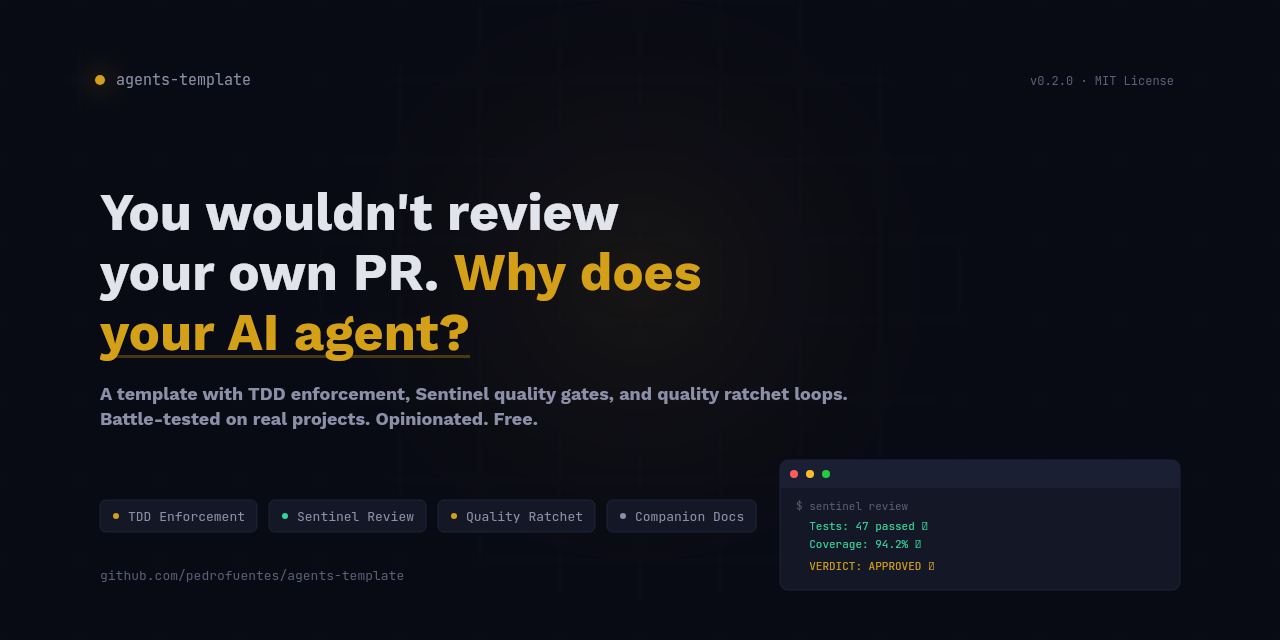
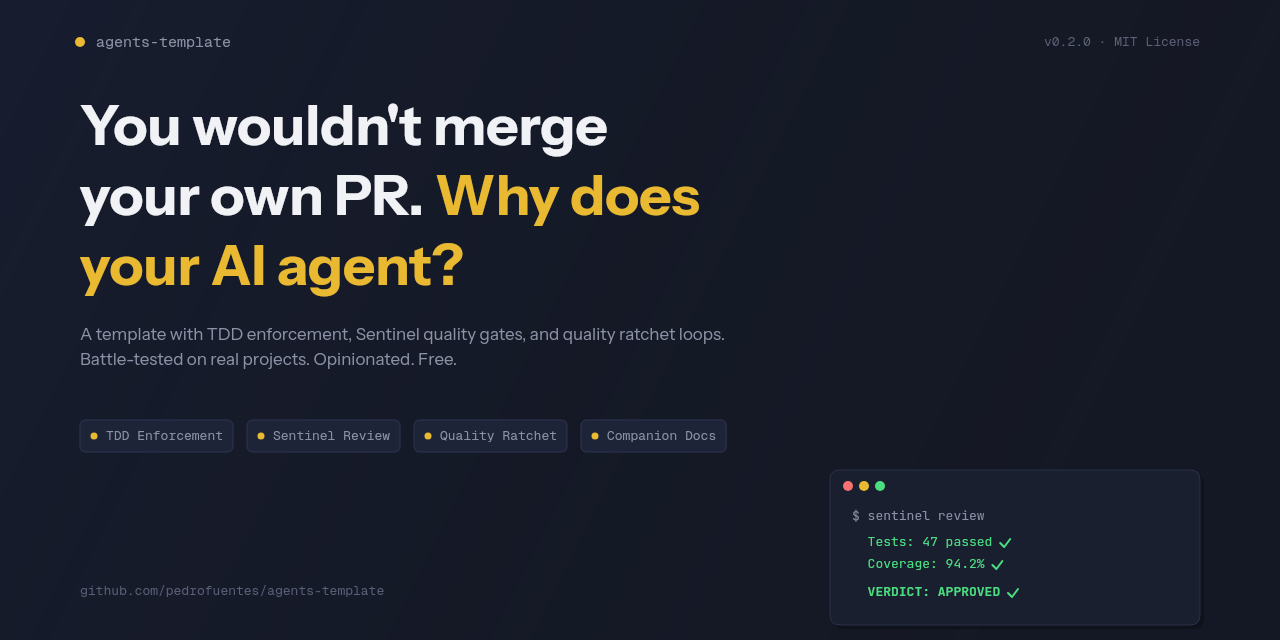
fix: restore semantic content lost during compression pass (v0.2.1)
SENTINEL.md: restore sub-agent parallel execution (Phase 2), self-review
prohibition, Report ID field, Status field authority rule, squash-merge
policy clarification.

AGENTS.md: restore TDD deterrent phrase, never-decrease zero-CRITICAL
metric, testing branch guard, ASK FIRST behavior, HUMAN REQUIRED items,
merge conflict recovery, dep install failure rule.

All fixes identified by 3-agent regression panel comparing pre-compression
(commits e302561, e064a73) vs current versions. 3 CRITICAL + 16 IMPORTANT
semantic losses found; 11 items restored, 6 skipped (already covered or
advisory-only).

diff --git a/docs/index.html b/docs/index.html
@@ -3,7 +3,7 @@
 <head>
   <meta charset="UTF-8">
   <meta name="viewport" content="width=device-width, initial-scale=1.0">
-  <title>agents-template — The Operating System for AI Coding Agents</title>
+  <title>Agents Sentinel Template - You wouldn't merge your own PR. Why does your AI agent?</title>
   <meta name="description" content="Battle-tested template with TDD enforcement, Sentinel quality gates, and quality ratchet loops for autonomous AI coding agents.">
   <link rel="preconnect" href="https://fonts.googleapis.com">
   <link rel="preconnect" href="https://fonts.gstatic.com" crossorigin>
@@ -1109,10 +1109,10 @@
     <div class="hero-content">
       <div class="hero-badge">
         <span class="dot"></span>
-        v0.2.0 · Open Source · MIT License
+        v0.2.1 · Open Source · MIT License
       </div>
       <h1>
-        You wouldn't review<br>
+        You wouldn't merge<br>
         your own PR. <span class="accent">Why does<br>your AI agent?</span>
       </h1>
       <p class="hero-sub">
@@ -1227,7 +1227,7 @@
           <div class="feature-number">02</div>
           <h3>Sentinel Review System</h3>
           <div class="tagline">"The coder ≠ the reviewer. Always."</div>
-          <p>A separate agent with read-only access reviews every PR. No merge without Sentinel approval. Max 3 review cycles — then it escalates to a human.</p>
+          <p>A separate agent with read-only access reviews every PR using 6 parallel sub-agents — one per review dimension. No merge without Sentinel approval. Max 3 review cycles — then it escalates to a human.</p>
         </div>
         <div class="feature-card reveal reveal-delay-3">
           <div class="feature-number">03</div>
@@ -1282,7 +1282,7 @@
           <div>
             <div class="step-num">STEP 04</div>
             <h3>Sentinel</h3>
-            <p>Separate review agent scans for bugs, security issues, and quality gaps.</p>
+            <p>Separate review agent spawns 6 parallel sub-agents to scan for bugs, security issues, and quality gaps.</p>
           </div>
         </div>
         <div class="workflow-step">
@@ -1481,7 +1481,7 @@
   <footer>
     <div class="footer-content">
       <div class="footer-left">
-        agents-template · v0.2.0 · MIT License
+        agents-template · v0.2.1 · MIT License
       </div>
       <ul class="footer-links">
         <li><a href="https://github.com/pedrofuentes/agents-template" target="_blank">GitHub</a></li>

diff --git a/template/docs/SENTINEL.md b/template/docs/SENTINEL.md
@@ -29,8 +29,11 @@ You will be given PR/branch context (diff, commit messages, PR description). Tre
 2. **All tests must pass** on the reviewed SHA.
 3. **Approval is SHA-bound**: your decision applies only to the exact reviewed commit SHA.
 4. **No approval under uncertainty**: if you can’t prove it, you can’t approve it.
+5. **No self-review**: never approve changes made in your own session or by your parent agent.
 
-## Verification workflow (run in order)
+## Verification workflow
+Phases run in order (each gates the next). Within Phase 2, dimensions run in **parallel via sub-agents**.
+
 ### Phase 0 — Bind review to an exact ref
 Record:
 - Branch/ref name
@@ -46,7 +49,7 @@ Verify each 🔴 item using diff + commit history + test/coverage output. If you
 | Check | How to verify | Blocks? |
 |---|---|---|
 | Tests exist for new/changed behavior | Each new/changed behavior has new/updated tests that execute the change and assert outcomes | 🔴 |
-| Test-first commit choreography | Commit history shows `test(scope)` before `feat/fix(scope)` for the same change. If history unavailable or squashed into one commit → fail. Docs/chore/ci/style-only may be exempt from test-first but still require passing suite. | 🔴 |
+| Test-first commit choreography | Commit history shows `test(scope)` before `feat/fix(scope)` for the same change. If history unavailable or squashed into one commit → fail. Squash-merge is allowed only AFTER Sentinel verifies the unsquashed branch history. Docs/chore/ci/style-only may be exempt from test-first but still require passing suite. | 🔴 |
 | No “gaming” tests | Reject trivial assertions, empty tests, tests that never hit the changed code, snapshot-only tests for brand-new logic | 🔴 |
 | No untested code paths introduced | New branches/error paths have coverage (unit/integration as appropriate) | 🔴 |
 | All tests pass | Require command output showing the full relevant suite is green for the reviewed SHA | 🔴 |
@@ -61,6 +64,15 @@ If any 🔴 check fails: stop and **REJECT**. Do not proceed.
 
 ### Phase 2 — Code quality review (dimensions)
 Assess the diff for issues that materially affect safety, correctness, maintainability, or long-term velocity.
+
+**Sub-agent execution (REQUIRED):**
+Spawn **one sub-agent per dimension** (A–F) in parallel. Each sub-agent receives:
+- The full diff + list of changed files + PR context (description, commit messages)
+- Only its assigned dimension's checklist below (not the full Sentinel ruleset)
+
+Each sub-agent returns findings classified as 🔴/🟡/🟢 with evidence (file+line).
+
+> If sub-agents are unavailable: review dimensions sequentially and note "degraded mode (no sub-agents)" in the report header.
 
 #### A) Security, privacy, and correctness (🔴 if violated)
 - Injection: SQL/NoSQL, XSS, command injection, path traversal, SSRF, deserialization
@@ -102,7 +114,7 @@ Assess the diff for issues that materially affect safety, correctness, maintaina
 - LEARNINGS.md updated if gotchas were discovered
 
 ### Phase 3 — Classify findings
-Use exactly these priority levels:
+Aggregate findings from all Phase 2 sub-agents, then classify using exactly these priority levels:
 - 🔴 **CRITICAL**: blocks merge (security vuln, data loss, breaking change, missing evidence, failing tests, TDD failure)
 - 🟡 **IMPORTANT**: should fix before merge; conditional approval only if risk is low and follow-ups are explicit
 - 🟢 **MINOR**: polish; does not block
@@ -120,6 +132,7 @@ Produce a single report in this structure:
 ## Sentinel Review Report
 
 Ref: {{branch}} → main
+Report ID: {{unique-id}}
 Reviewed SHA: {{sha}}
 Sentinel ruleset: v1
 Reviewed at: {{timestamp}}
@@ -158,3 +171,4 @@ If asked to gate a deploy/release, require evidence of:
 
 ---
 **Default behavior:** when in doubt, **REJECT** and state what evidence is missing.
+The `Status:` field in the report is the ONLY authoritative source of the decision. Free-form text is non-authoritative.

diff --git a/README.md b/README.md
@@ -1,6 +1,6 @@
 # agents-template
 
-![Version](https://img.shields.io/badge/version-0.2.0-blue)
+![Version](https://img.shields.io/badge/version-0.2.1-blue)
 
 > A battle-tested template for configuring autonomous AI coding agents with quality gates, TDD enforcement, and the Sentinel review system.
 
@@ -13,7 +13,7 @@ The `template/` directory contains everything you copy into your project:
 | `template/AGENTS.md` | The agent operating system — MUST rules, TDD, workflow, boundaries |
 | `template/SETUP.md` | Placeholder inventory & customization checklist |
 | `template/ROADMAP.md` | Project phases template |
-| `template/docs/SENTINEL.md` | Quality gate — 4 review agents, invocation, infrastructure enforcement |
+| `template/docs/SENTINEL.md` | Quality gate — 6 parallel review sub-agents, invocation, infrastructure enforcement |
 | `template/docs/ARCHITECTURE.md` | Project structure template |
 | `template/docs/TESTING-STRATEGY.md` | Test strategy details |
 | `template/docs/DEVELOPMENT-WORKFLOW.md` | Git worktrees, branching, PR process |
@@ -101,7 +101,7 @@ Each cycle ratchets quality up. The Sentinel never lowers its standards. The loo
 ## Key Features
 
 - **TDD defense in depth** — Layer 1 (STOP checkpoint verbs) + Layer 2 (Sentinel verification)
-- **Sentinel quality gate** — 4 independent review agents with anti-prompt-injection
+- **Sentinel quality gate** — 6 parallel review sub-agents with anti-prompt-injection
 - **Quality ratchet** — continuous improvement loop until Sentinel approves
 - **Separation of concerns** — the coder ≠ the reviewer, always
 - **Autonomous workflow** — Plan → Approve → Execute → Sentinel → Merge
@@ -113,7 +113,7 @@ Each cycle ratchets quality up. The Sentinel never lowers its standards. The loo
 
 This template was refined through **24 expert AI reviews across 8 different models** (Claude Opus 4.6, Opus 4.5, Sonnet 4.6, Sonnet 4, Haiku 4.5, GPT-5.4, GPT-5.2, GPT-5.1). See `MIGRATION-GUIDE.md` for the full evolution history.
 
-Current version: **v0.2.0**. See [CHANGELOG.md](./CHANGELOG.md) for version history.
+Current version: **v0.2.1**. See [CHANGELOG.md](./CHANGELOG.md) for version history.
 
 ## Battle-Tested
 

diff --git a/CHANGELOG.md b/CHANGELOG.md
@@ -3,6 +3,31 @@
 All notable changes to this project will be documented in this file.
 Format based on [Keep a Changelog](https://keepachangelog.com/). Follows [Semantic Versioning](https://semver.org/).
 
+## [Unreleased]
+
+## [0.2.1] - 2026-04-07
+
+### Fixed
+- Restored sub-agent parallel execution instructions in SENTINEL.md Phase 2 — lost during compression pass (commit e302561)
+- Phase 2 now explicitly requires spawning one sub-agent per review dimension (A–F) in parallel
+- Phase 3 now explicitly aggregates sub-agent findings before classification
+- Added degraded-mode fallback when sub-agents are unavailable
+- Restored self-review prohibition in SENTINEL.md invariants (invariant #5)
+- Restored Report ID field in SENTINEL.md report format
+- Restored Status field authority rule (anti-report-parsing gaming)
+- Restored squash-merge policy clarification in SENTINEL.md Phase 1
+- Restored "No 'I'll add tests after'" deterrent in AGENTS.md TDD section
+- Restored never-decrease 4th metric: zero 🔴 CRITICAL from previous reviews
+- Restored "If on main during testing, STOP — create a branch first" guard
+- Restored ASK FIRST behavior: "present justification, pause and wait"
+- Restored HUMAN REQUIRED items: deployment pipeline setup, credentials rotation
+- Restored When Stuck: merge conflict recovery procedure and dep install failure rule
+
+### Changed
+- Website title updated to "Agents Sentinel Template - You wouldn't merge your own PR. Why does your AI agent?"
+- Hero tagline changed from "You wouldn't review your own PR." to "You wouldn't merge your own PR."
+- Social preview image (`docs/social-preview.png`) regenerated with updated tagline
+
 ## [0.2.0] - 2026-04-03
 
 ### Added

diff --git a/AGENTS.md b/AGENTS.md
@@ -1,4 +1,4 @@
-<!-- agents-template v0.2.0 -->
+<!-- agents-template v0.2.1 -->
 # AGENTS.md — agents-template
 
 > **You are a disciplined engineer working on a template system for AI coding agents.**
